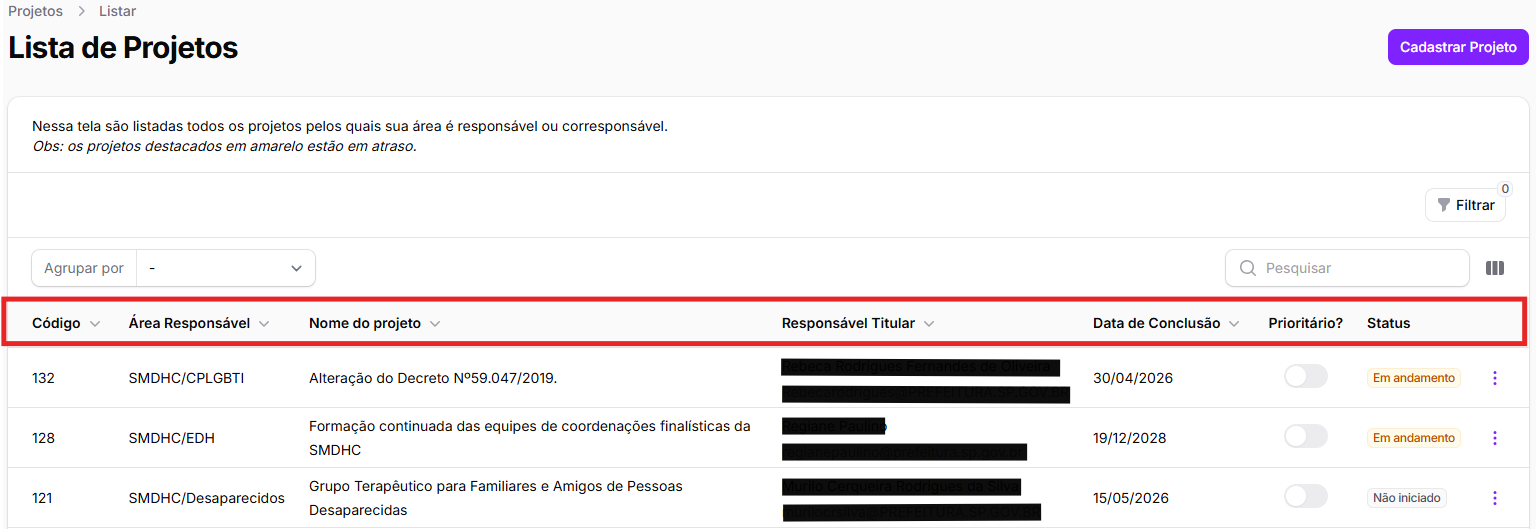
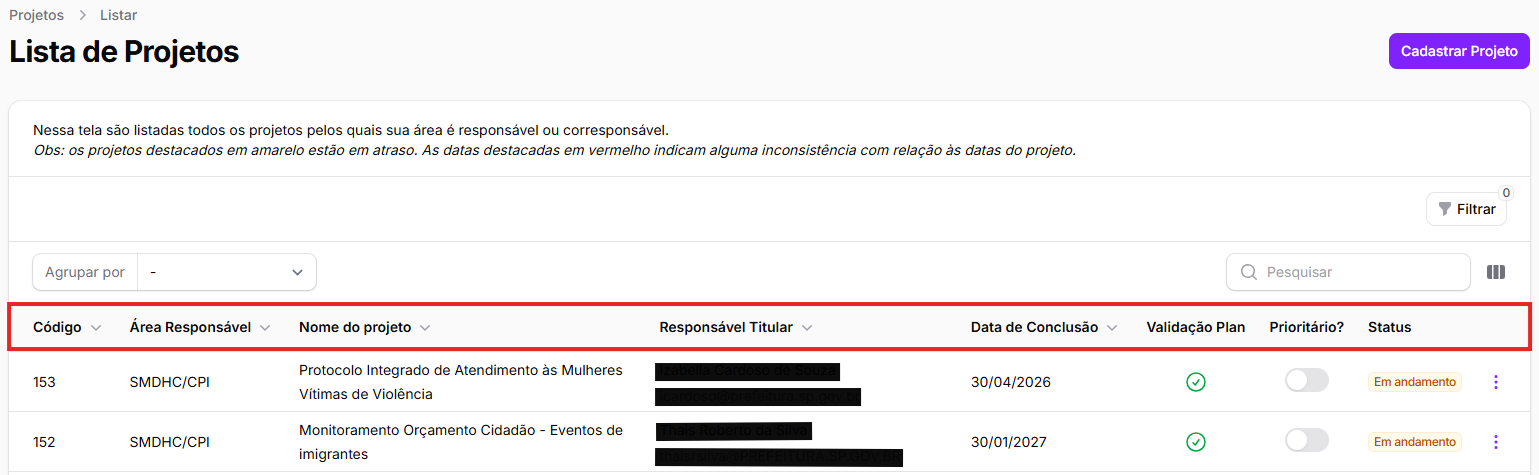
GITBOOK-390: No subject

diff --git a/planejamento/siad-projetos/acesso-ao-sistema.md b/planejamento/siad-projetos/acesso-ao-sistema.md
@@ -8,19 +8,29 @@ description: >-
 
 ### Como acessar o SIAD-Projetos?
 
-Para acessar ao SIAD-Projetos, siga os passos a seguir
+Agora, o login para todos os módulos do SIAD será feito por meio do mesmo endereço. Para acessar o SIAD-Projetos, siga os passos a seguir.&#x20;
 
 {% stepper %}
 {% step %}
-#### Entre no link da página do SIAD-Projetos
+#### Entre no link da página do SIAD
 
-Link: [<mark style="color:blue;">https://siad.prefeitura.sp.gov.br/planejamento</mark>](https://siad.prefeitura.sp.gov.br/planejamento)
+Link: [<mark style="color:blue;">https://siad.prefeitura.sp.gov.br</mark>](https://siad.prefeitura.sp.gov.br/planejamento)
 {% endstep %}
 
 {% step %}
 #### Insira o login e senha enviados por CPI
 
-<figure><img src="../../.gitbook/assets/Captura de tela 2025-11-12 161741.png" alt=""><figcaption></figcaption></figure>
+<figure><img src="../../.gitbook/assets/login (1).png" alt=""><figcaption></figcaption></figure>
+{% endstep %}
+
+{% step %}
+#### Selecione o equipamento e o módulo
+
+Caso você tenha cadastro autorizado para mais de uma coordenação/equipamento, selecione aquela para a(o) qual deseja o acesso.&#x20;
+
+Da mesma forma, você pode ter acesso a mais de um módulo do SIAD (Atendimento, Benefícios, Projetos etc.). Selecione o módulo "Projetos" e clique em Login.&#x20;
+
+<figure><img src="../../.gitbook/assets/login projetos.png" alt=""><figcaption></figcaption></figure>
 {% endstep %}
 
 {% step %}

diff --git a/planejamento/siad-projetos/lista-de-projetos.md b/planejamento/siad-projetos/lista-de-projetos.md
@@ -20,6 +20,8 @@ Ainda, como indicado no início da tela, os projetos destacados em <mark style="
 
 <figure><img src="../../.gitbook/assets/projeto amarelo.png" alt=""><figcaption></figcaption></figure>
 
+Já os projetos com datas destacadas em vermelho indicam alguma inconsistência com relação às datas.&#x20;
+
 Explicaremos como acessar as informações detalhadas dos projetos em [ficha-do-projeto.md](ficha-do-projeto.md "mention").&#x20;
 
 A critério do usuário, é possível adicionar colunas na tabela e aplicar ferramentas de busca, filtragem e agrupação de projetos. A seguir, explicaremos cada uma dessas funcionalidades.&#x20;

diff --git a/planejamento/siad-projetos/cadastro-de-projetos/README.md b/planejamento/siad-projetos/cadastro-de-projetos/README.md
@@ -1,6 +1,6 @@
 ---
 description: >-
-  Nessa seção encontrará instruções de como cadastrar um projeto no
+  Nessa seção você encontrará instruções de como cadastrar um projeto no
   SIAD-Projetos.
 ---
 
